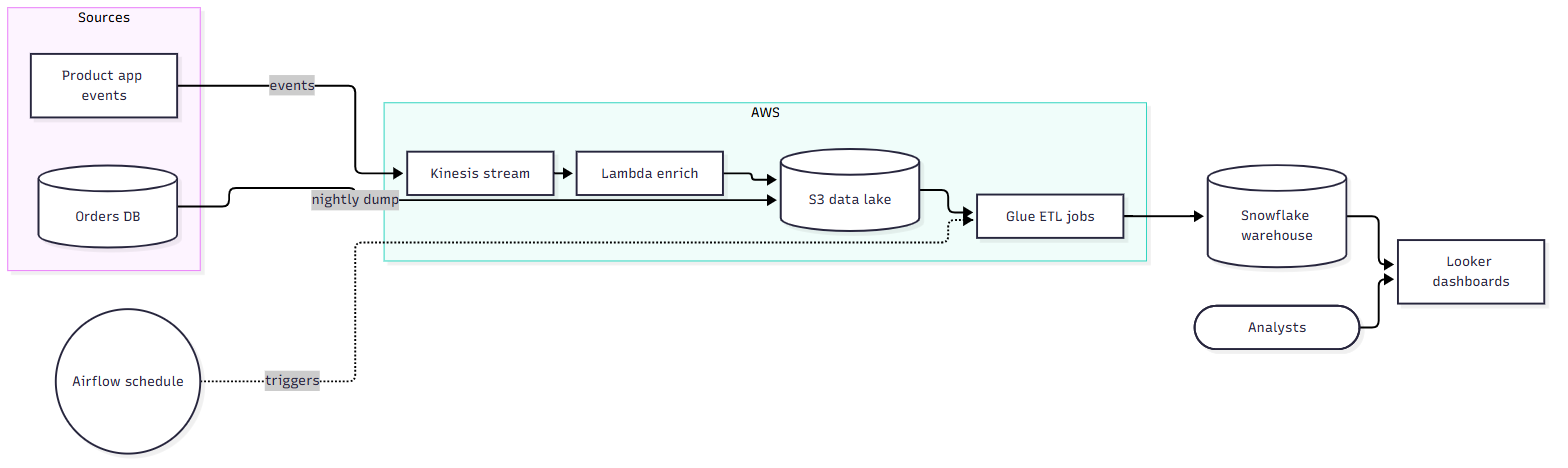
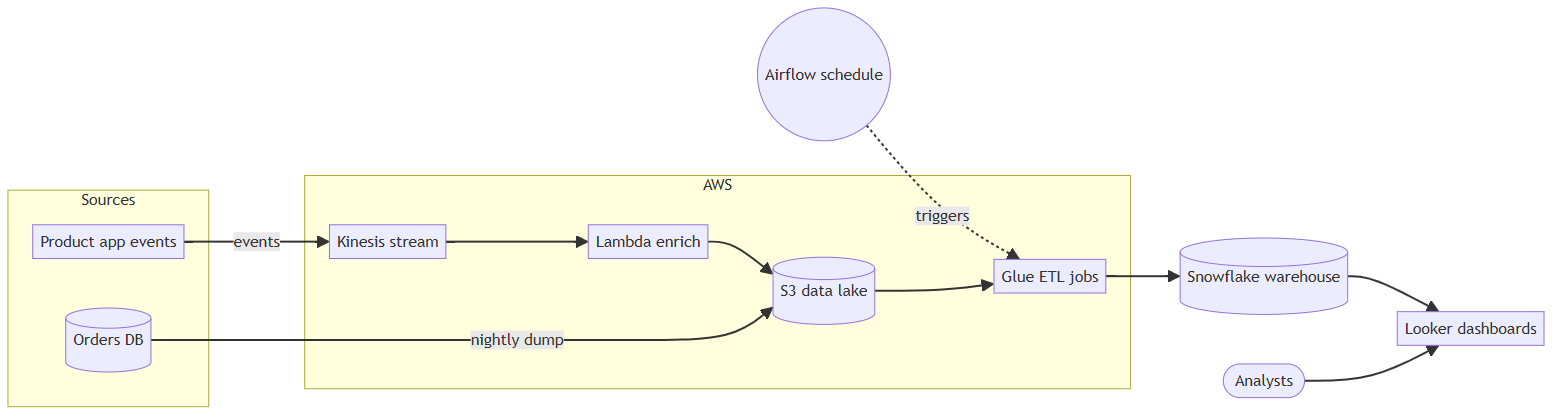
Use Mermaid's default (GitHub-like) theme for the before image

diff --git a/README.md b/README.md
@@ -4,7 +4,7 @@ A [Claude Code](https://claude.com/claude-code) skill that turns plain diagrams,
 
 **Mermaid's default render**
 
-<img src="skills/architecture-diagram/examples/from-mermaid/data-pipeline-mermaid-default.png" alt="A data pipeline drawn by Mermaid: a long, flat row of plain boxes, labels in gray patches, lines that cross at the Glue box" width="860">
+<img src="skills/architecture-diagram/examples/from-mermaid/data-pipeline-mermaid-default.png" alt="A data pipeline drawn by Mermaid's default theme: lavender boxes, yellow frames, labels in gray patches, one long flat row" width="860">
 
 **After**
 
@@ -50,7 +50,7 @@ Options: `--theme sage|blue`, `--out`, `--title`, `--font-dir`, `--no-system-fon
 ## Notes
 
 - Box widths are estimated for Geist, which the PNG uses. In the PNG, Hangul and CJK text uses a system sans font (Malgun Gothic, Yu Gothic, Apple SD Gothic Neo or Noto Sans CJK) and bold may not apply to it.
-- The "Mermaid's default render" image was made with `@mermaid-js/mermaid-cli` and its default theme.
+- The "Mermaid's default render" image is `@mermaid-js/mermaid-cli` 10.9 with its default theme, the lavender-and-yellow look GitHub shows for a ` ```mermaid ` block. Mermaid's layout differs a little between versions and hosts; the look is the same.
 
 ## License
 
